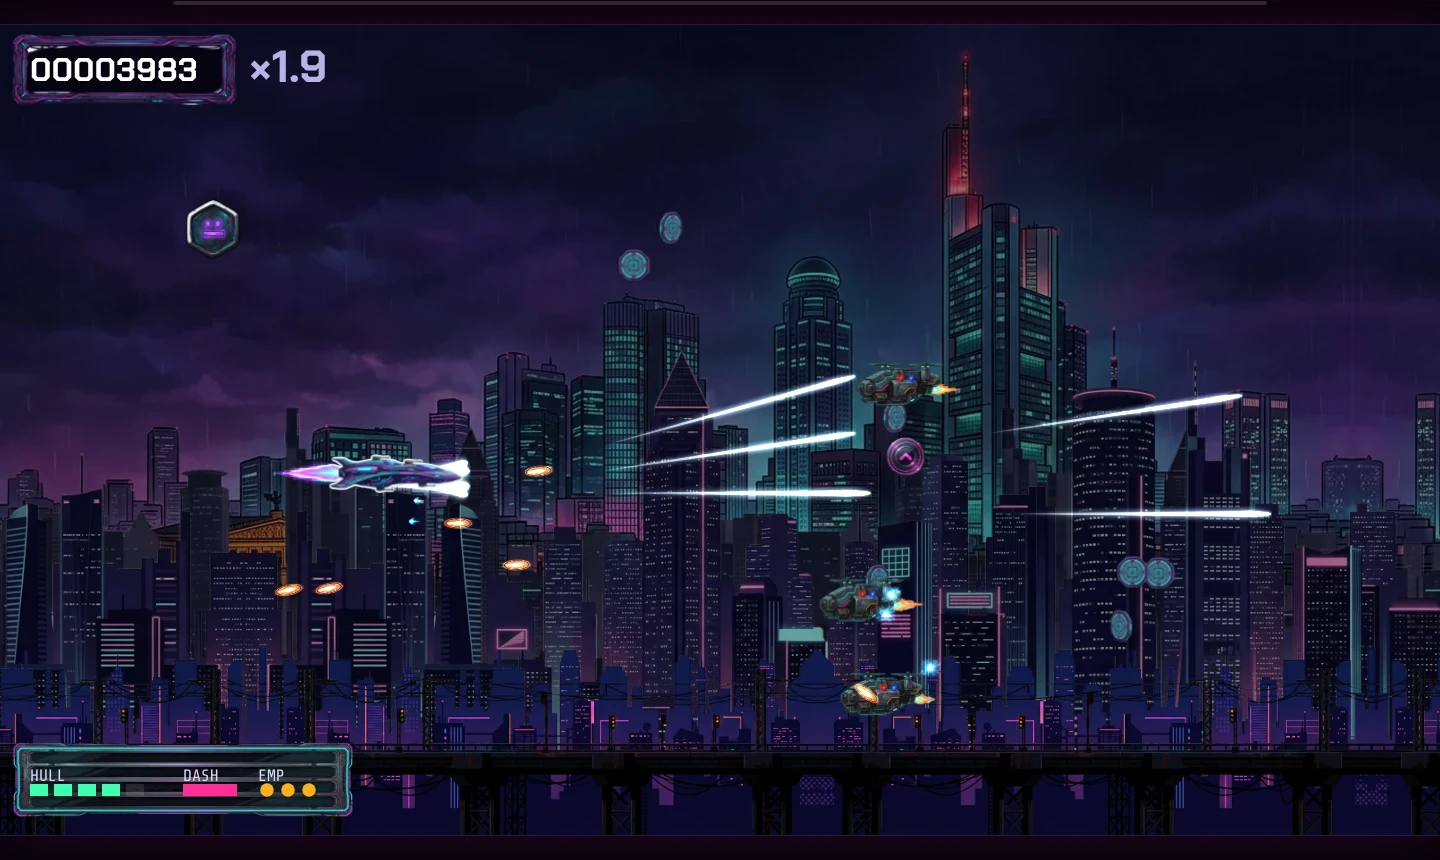
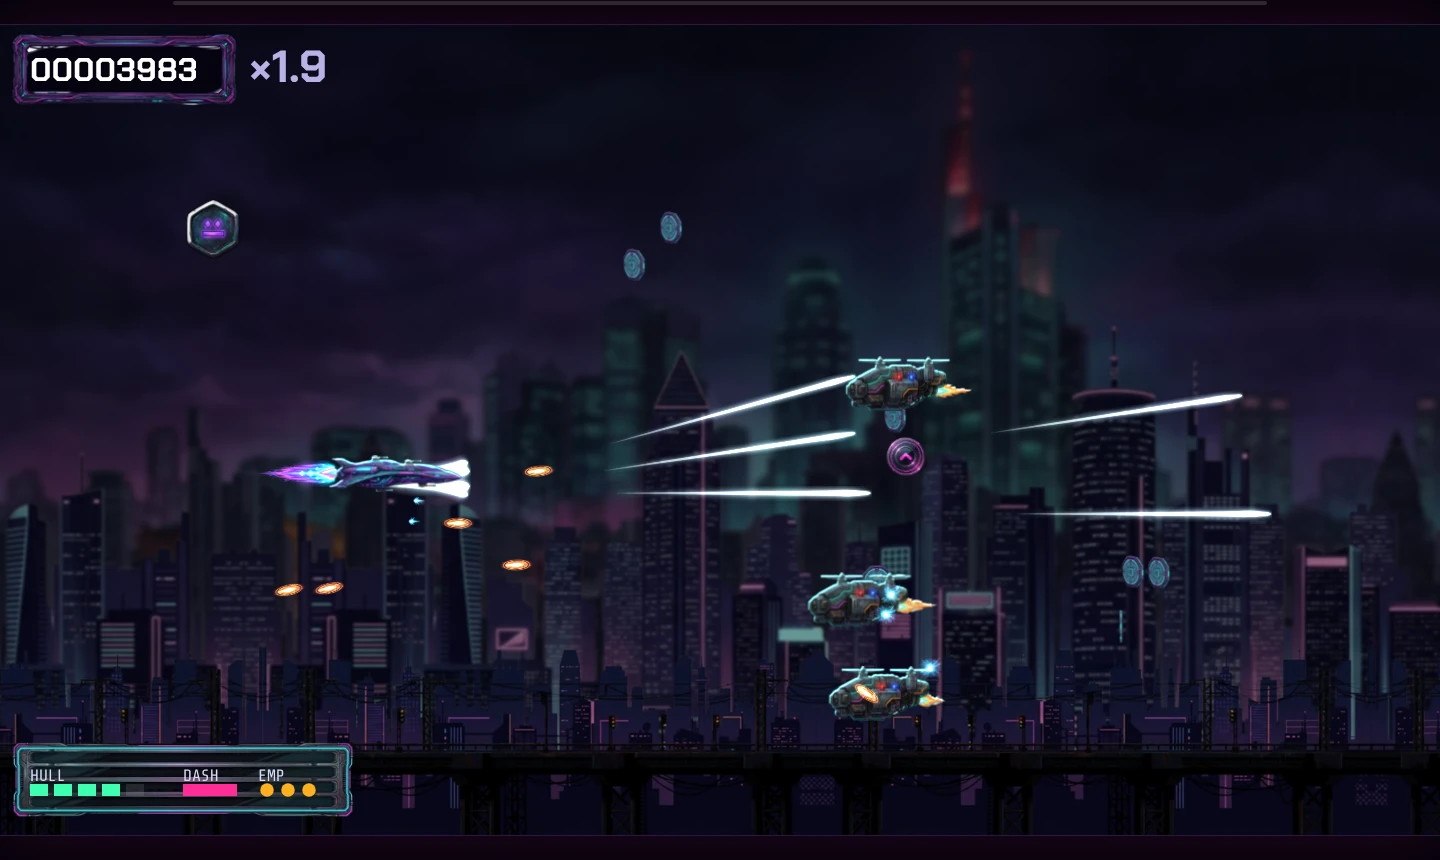
Nightrun W215b: depth (soft darker far planes), one scene light baked per sprite frame, bigger readable enemies

diff --git a/games-src/nightrun/parts/render/pure.js b/games-src/nightrun/parts/render/pure.js
@@ -12,40 +12,42 @@ if(RET.purelook===undefined)RET.purelook=!/[?&]purelook=0/.test(location.search)
 const PURL=window.PURL={K:90/520,get PK(){return wcv!==cv?1.6:1.3;},   // W215/W219: player 1.6x the enemies' texel scale on the phone, 1.3x on PC
   pl(){const s=ART.ANIM.s['ship-'+shipDef().id+'/flame'];return(s?s[2]:260)*this.K*this.PK;},   // the player's drawn length (world units)
   WARM:/^(?!(arc|frost|wave)$)/,   // W219 r3: only the cyan weapon pictures stay; every other weapon (warm, pink, violet) is drawn as the white standard streak   // W215: weapon shot pictures in the enemy-shot hues (lime / yellow / orange): drawn as the cool standard shot instead
-  dim(b,v){const D=this.DM||(this.DM=new Map());let c=D.get(b);if(c)return c;   // W219: backdrop layers only, once per picture: brightness .65, saturate .85, so the play layer is the brightest thing
-    c=document.createElement('canvas');c.width=b.width;c.height=b.height;const x=c.getContext('2d');x.filter=`brightness(${v||.65}) saturate(.85)`;x.drawImage(b,0,0);D.set(b,c);return c;},
-  cover(b,w,h){b=this.dim(b,.42);   // the phone painting is brighter than the PC strips: a lower value lands it at the PC's level
+  dim(b,v,bl){const D=this.DM||(this.DM=new Map());let c=D.get(b);if(c)return c;   // W219: backdrop layers only, once per picture: brightness .65, saturate .85, so the play layer is the brightest thing
+    c=document.createElement('canvas');c.width=b.width;c.height=b.height;const x=c.getContext('2d');x.filter=`blur(${bl||2}px) brightness(${v||.6}) saturate(.7)`   /* W215c: far planes soft, darker, less saturated: they read as distance */;x.drawImage(b,0,0);D.set(b,c);return c;},
+  cover(b,w,h){b=this.dim(b,.42,1.8);   // the phone painting is brighter than the PC strips: a lower value lands it at the PC's level
    const s=Math.max(w/b.width,h/b.height),sw=w/s,sh=h/s;ctx.drawImage(b,(b.width-sw)/2,(b.height-sh)/2,sw,sh,0,0,w,h);},
-  tile(b,y,h,scroll,par,keep){if(!keep)b=this.dim(b);const tw=h*b.width/b.height,off=(scroll*par)%(2*tw);   // every other tile mirrored: no seam
+  tile(b,y,h,scroll,par,v,bl){b=this.dim(b,v,bl);const tw=h*b.width/b.height,off=(scroll*par)%(2*tw);   // every other tile mirrored: no seam
     for(let j=Math.floor(off/tw);j*tw-off<W;j++){const x=j*tw-off;if(x+tw<=0)continue;
       if(j&1){ctx.save();ctx.translate(x+tw,y);ctx.scale(-1,1);ctx.drawImage(b,0,0,tw,h);ctx.restore();}else ctx.drawImage(b,x,y,tw,h);}},
   bg(port,scroll){const di=G.di,n=ART.dn[di],D=DISTRICTS[di],bm=ART.bm;ctx.fillStyle='#000';
     if(port){const b=bm['bg-'+n+'-phone'];if(!b){ART.warm(di);ctx.fillRect(0,0,PW_,PH_);return;}this.cover(b,PW_,PH_);return;}
     ART.paintReady(di);const b=bm['bg-'+n];if(!b){ctx.fillRect(0,0,W,H);return;}
-    this.tile(b,0,H,scroll,.03);
+    this.tile(b,0,H,scroll,.03,.5,3);
     const far=bm['ly-far-'+n],mid=bm['ly-mid-'+n],nr=bm['ly-near-'+D.near];
-    if(far){const fh=W*far.height/far.width;this.tile(far,H-60-fh,fh,scroll,.03);}
-    if(mid)this.tile(mid,H-340,310,scroll,.3);
-    if(nr)this.tile(nr,H-130,130,scroll,1.1,1);},   // the near strip keeps full value (play-layer depth)
+    if(far){const fh=W*far.height/far.width;this.tile(far,H-60-fh,fh,scroll,.06,.55,2.5);}
+    if(mid)this.tile(mid,H-340,310,scroll,.3,.62,1.5);
+    if(nr)this.tile(nr,H-130,130,scroll,1.1,.75,1);},   // parallax .03 / .06 / .3 / 1.1; every plane behind the ships is softer and darker than the ships
   sheet(e){const M=ENEMY_ART[FOEART.id(e)];if(!M||e.type==='gate')return null;const m=M.native?{s:M.s||'e'+e.type,k:M.k||4.2}:FOEART.map(e);if(!m||!m.s)return null;
     const b='ship-'+m.s+'/',v=e.arm&&ART.ANIM.s[b+'volley']&&ART.anim(b+'volley'),key=b+(v?'volley':'flame');if(!ART.ANIM.s[key]||!ART.anim(key))return null;ART.anim(b+'death');return{m,key};},
-  foe(e,t){const q=this.sheet(e);if(!q)return false;const{m,key}=q,s=ART.ANIM.s[key],fw=s[2],w=clamp(m.w||e.r*(m.k||4.2),Math.max(this.K*fw*.8,this.pl()*.55),Math.max(this.K*fw*1.25,this.pl()*.55)),sc=w/fw,rot=m.rot?m.rot(e,t):0;
-    ctx.save();ctx.translate(e.x,e.y);if(rot)ctx.rotate(rot);if(m.gnd)ctx.translate(0,e.r-sc*s[3]/2);ART.drawAnim(ctx,key,(e.t||0)+eb_(e),0,0,sc,false);ctx.restore();
+  foe(e,t){const q=this.sheet(e);if(!q)return false;const{m,key}=q,s=ART.ANIM.s[key],fw=s[2],w=clamp(m.w||e.r*(m.k||4.2),Math.max(this.K*fw*.8,this.pl()*.75),Math.max(this.K*fw*1.25,this.pl()*.75)),sc=w/fw,rot=m.rot?m.rot(e,t):0;
+    ctx.save();ctx.translate(e.x,e.y);if(rot)ctx.rotate(rot);if(m.gnd)ctx.translate(0,e.r-sc*s[3]/2);this.lit(key,(e.t||0)+eb_(e),sc,s);ctx.restore();
     e._fs=sc;e._fa=FOEART.fr;e._fk=FOEART.fr;return true;},
   player(t){if(G.dead)return;const id=shipDef().id,key='ship-'+id+'/flame',k=this.K*this.PK;ctx.save();ctx.translate(P.x,P.y);ctx.rotate(P.tilt);
     const s=ART.ANIM.s[key],L=s?s[2]*k:56,e=ART.bm['fx-engine'];   // W215: owner engine light (fx-engine, painted on black) under the tail, steady flicker, no ring or halo
     if(e){const w=L*(.42+.04*Math.sin(t*38)),h=w*e.height/e.width*1.3;ctx.globalCompositeOperation='lighter';ctx.drawImage(e,-L*.22-w,-h/2,w,h);ctx.globalCompositeOperation='source-over';}else if(e===undefined)ART.load('fx-engine');
-    if(RET.sprites&&SPR.shipOn(id)&&s)this.rim(key,t,k,s);   // the player one notch above the enemies' texel scale (1.35x, inside the 1.5x band): it must read first
+    if(RET.sprites&&SPR.shipOn(id)&&s)this.lit(key,t,k,s);   // the player one notch above the enemies' texel scale (1.35x, inside the 1.5x band): it must read first
    else ART.put(ART.sp('spr-ship-'+id,this.K*520*this.PK),0,0);
     ctx.restore();},
-  rim(key,t,k,s){   // W215: the player's frame with a 1 px light outline (the benchmark shooters outline the player ship so it reads on any backdrop; no glow, no ring)
-    const m=ctx.getTransform(),ps=Math.hypot(m.a,m.b),fw=s[2]*k*ps,fh=s[3]*k*ps,O=this.O||(this.O=[document.createElement('canvas'),document.createElement('canvas')]),w=Math.ceil(fw+8),h=Math.ceil(fh+8);
-    for(const c of O)if(c.width<w||c.height<h){c.width=Math.max(c.width,w);c.height=Math.max(c.height,h);}
-    const a=O[0].getContext('2d'),b=O[1].getContext('2d'),cw=O[0].width,ch=O[0].height;a.setTransform(1,0,0,1,0,0);a.clearRect(0,0,cw,ch);a.setTransform(ps,0,0,ps,cw/2,ch/2);ART.drawAnim(a,key,t,0,0,k,false);
-    b.setTransform(1,0,0,1,0,0);b.clearRect(0,0,cw,ch);b.globalCompositeOperation='source-over';b.drawImage(O[0],0,0);b.globalCompositeOperation='source-in';b.fillStyle='#eafcff';b.fillRect(0,0,cw,ch);b.globalCompositeOperation='source-over';
-    const d=Math.max(1.2*(window.devicePixelRatio||1),1.6)/ps,W_=cw/ps,H_=ch/ps;
-    for(const[x,y]of[[-d,0],[d,0],[0,-d],[0,d],[-d*.7,-d*.7],[d*.7,-d*.7],[-d*.7,d*.7],[d*.7,d*.7]])ctx.drawImage(O[1],x-W_/2,y-H_/2,W_,H_);
-    ctx.drawImage(O[0],-W_/2,-H_/2,W_,H_);},
+  lit(key,t,k,s){   // W215c: one scene light for every ship, baked once per sheet frame and size: a key light from the upper neon side
+    // (soft lift on that side + a thin cyan rim), a slight under-shade on the far side. Never a flat tint; the owner's frame stays underneath.
+    const m=ctx.getTransform(),ps=Math.hypot(m.a,m.b),i=ART.aframe(key,t),q=Math.round(k*ps*64),id=key+'|'+i+'|'+q,C=this.LC||(this.LC=new Map());let c=C.get(id);
+    if(!c){if(C.size>600)C.clear();const fw=s[2]*k*ps,fh=s[3]*k*ps,w=Math.ceil(fw+8),h=Math.ceil(fh+8);c=document.createElement('canvas');c.width=w;c.height=h;
+      const a=c.getContext('2d');a.setTransform(ps,0,0,ps,w/2,h/2);ART.drawAnim(a,key,t,0,0,k,false);a.setTransform(1,0,0,1,0,0);
+      const r=document.createElement('canvas');r.width=w;r.height=h;const b=r.getContext('2d'),d=Math.max(1.5,ps*.9);
+      b.drawImage(c,0,0);b.globalCompositeOperation='source-in';b.fillStyle='#8ff4ff';b.fillRect(0,0,w,h);b.globalCompositeOperation='destination-out';b.drawImage(c,d*.6,d);   // the rim: silhouette minus itself shifted away from the light
+      a.globalCompositeOperation='source-atop';let g=a.createLinearGradient(0,0,0,h);g.addColorStop(0,'rgba(205,240,255,.30)');g.addColorStop(.45,'rgba(205,240,255,0)');g.addColorStop(.6,'rgba(10,0,30,0)');g.addColorStop(1,'rgba(10,0,30,.38)');
+      a.fillStyle=g;a.fillRect(0,0,w,h);a.globalCompositeOperation='lighter';a.drawImage(r,0,0);a.globalCompositeOperation='source-over';C.set(id,c);}
+    const W_=c.width/ps,H_=c.height/ps;ctx.drawImage(c,-W_/2,-H_/2,W_,H_);},
   hot(n,v){const b=ART.bm[n];if(!b){if(b===undefined)ART.load(n);return null;}const c=document.createElement('canvas');c.width=b.width;c.height=b.height;const x=c.getContext('2d');x.filter=v==='w'?'saturate(0) brightness(1.6)':'hue-rotate(-55deg) saturate(2.6) brightness(1.2)';x.drawImage(b,0,0);return ART.bm[n+'~'+v]=c;},   // ~o orange-red, ~w white (made once per picture)
   pic(n,x,y,w,ang,hk){const v=/~([ow])$/.exec(n),b=v?(ART.bm[n]||this.hot(n.slice(0,-2),v[1])):ART.bm[n];if(!b&&v)return false;if(!b){if(b===undefined)ART.load(n);return false;}const h=w*b.height/b.width*(hk||1);ctx.save();ctx.globalCompositeOperation='lighter';ctx.translate(x,y);if(ang)ctx.rotate(ang);ctx.drawImage(b,-w/2,-h/2,w,h);ctx.restore();return true;},
   shots(){for(const b of G.pb){const a=(b.vx||b.vy)?Math.atan2(b.vy,b.vx):0,wn=b.wid&&!this.WARM.test(b.wid)?'fx-w-'+b.wid+'-bullet':null;   // player shots keep the cool hues (cyan / white / violet); enemy shots own lime to orange

diff --git a/games-src/nightrun/review-shots/W215b/README.md b/games-src/nightrun/review-shots/W215b/README.md
@@ -24,3 +24,43 @@ Shots: stage 1, seed 7, t = 27.5 s (3 enemies, 6 enemy shots), one render after 
 | 5 | Bullets | 8 | Player: white/cyan streaks. Enemy: orange bolts and shells. No shared hue. |
 | 6 | Clutter | 8 | Field marks: "^" pickup and "B" (at most 2). |
 | 7 | Benchmark | 6 | Enemies are small and the streaks are long and thin, not chunky glowing shots like Ref A's. |
+
+## Round 4: owner verdict 20:10 UTC ("the spaceship looks like a sticker on the wallpaper, same with enemies, enemies are not visible at all")
+The shots above are from this round (stage 1, seed 7, t = 27.5 s).
+1. **Depth.** Every plane behind the ships is drawn from a copy made once per picture with blur, lower brightness and saturate .7.
+   The phone backdrop is at blur 1.8 px / brightness .42. On PC: backdrop 3 px / .5, far 2.5 px / .55, mid 1.5 px / .62, near strip 1 px / .75.
+   Parallax is .03 / .06 / .3 / 1.1, so the far strip now moves too. Nothing behind the ships is as sharp or as bright as they are.
+2. **Shared light.** `PURL.lit` bakes each sheet frame once per frame and size (cache of up to 600). On top of the owner's frame it
+   adds a soft lift on the key-light side (the sprite's top, the neon sky), a slight under-shade on the far side and a thin cyan rim:
+   the silhouette minus itself shifted away from the light. The player and every enemy use the same light. The player's white
+   outline is gone; it was the sticker look. Engine light: the owner flame sheets (enemies) and fx-engine (player).
+3. **Enemy visibility.** Visual size is at least 0.75x the player's drawn frame. Hitboxes and gameplay are unchanged: drawing
+   only, and the sim never calls render. Value contrast against the darkened backdrop (linear luminance, brighter half of the enemy
+   box vs the backdrop median beside it): PC 3.7:1 and 6.4:1, phone 3.3:1 and 4.2:1, all at or above 3:1. Before this round: PC 2.4,
+   phone 2.95.
+
+### impeccable critique (flight screen; heuristic structure from reference/critique.md, colour from reference/colorize.md)
+- [P0, fixed] Figure/ground: the ships had less value than the painting behind them, so the eye read the wallpaper first. Fix: depth
+  of field plus value steps (backdrop .4-.5, ships lit).
+- [P1, fixed] Colour as signal (colorize, "rarity gives an accent force"): white/cyan is the player only, orange the enemies only,
+  cyan rim the shared light. The pink player shots and yellow needles that broke this are gone.
+- [P1, fixed] Sticker edges: a hard light outline with no matching light in the scene. Replaced by a one-sided rim from the key light.
+- [P2, open] The "B" letter and the pink "^" pickup are the only marks in the field that are not ships or shots.
+- [P2, open] Player streaks are long, thin lines. Benchmark shooters use shorter, chunkier glowing shots. This needs an owner shot
+  picture at that shape, not code.
+### design-review (hierarchy, consistency, fidelity)
+- Hierarchy: player > enemies > enemy shots > backdrop now holds on both screens. The HUD sits only at the edges.
+- Consistency: one light, one scale band (player 1.6x phone / 1.3x PC; enemies at least 0.75x the player), one shot family per side.
+- Fidelity: the owner's art is drawn as made. Code adds only blur and value on the backdrop and a light pass on the ships.
+- The skills' DOM detector and live-server steps do not apply to a canvas game, so the screenshots above are the evidence.
+
+### game-look strict critic pass (both screens)
+| # | test | phone | PC | note |
+|---|---|---|---|---|
+| 1 | Owner art only | 7 | 7 | The light pass is code, as the brief asks. The code-drawn "B" letter remains. |
+| 2 | Grayscale | 8 | 8 | Contrast 3.3-6.4:1 against the backdrop. |
+| 3 | Silhouette | 7 | 7 | Long dart vs rotor gunships; enemies at least 0.75x the player. |
+| 4 | Find the player | 8 | 8 | Engine light, white streaks from the nose, the rim on a soft backdrop. |
+| 5 | Bullets | 8 | 8 | Player white/cyan, enemy orange; no shared hue. |
+| 6 | Clutter | 8 | 8 | At most 2 non-ship marks. |
+| 7 | Benchmark (Ref B, painted depth: https://shared.akamai.steamstatic.com/store_item_assets/steam/apps/606730/ss_d3795f7761dd1e2d96541ce7b60ccf521a06c358.1920x1080.jpg) | 7 | 7 | Depth and light now match in kind. The shots are still thinner than the benchmark's. |
